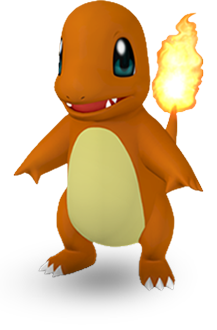
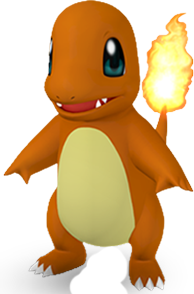
html card moved to js & some img fixes

diff --git a/app.js b/app.js
@@ -1,0 +1,102 @@
+const pokemons = [
+  {
+    id: 1,
+    name: "Bulbasour",
+    genre: "Grass",
+    hp: "20",
+    attack: "35",
+    defence: "40",
+    speed: "20",
+    img: "assets/img/Bulbasour.png",
+    color: "126, 216, 118",
+  },
+  {
+    id: 2,
+    name: "Squirlte",
+    genre: "Water",
+    hp: "30",
+    attack: "20",
+    defence: "35",
+    speed: "25",
+    img: "assets/img/Squirlte.png",
+    color: "99, 219, 243",
+  },
+  {
+    id: 3,
+    name: "Charmander",
+    genre: "Fire",
+    hp: "20",
+    attack: "15",
+    defence: "25",
+    speed: "10",
+    img: "assets/img/Charmander-1.png",
+    color: "243, 118, 0",
+  },
+  {
+    id: 4,
+    name: "Pikachu",
+    genre: "Electric",
+    hp: "30",
+    attack: "40",
+    defence: "25",
+    speed: "20",
+    img: "assets/img/Pikachu-1.png",
+    color: "255, 213, 6",
+  },
+];
+
+const body = document.body;
+body.innerHTML = pokemons
+  .map((pokemon) => {
+    return `<div class="card">
+        <div class="avatar">
+            <div class="experience">
+                <svg>
+                    <filter id='inset-shadow'>
+                        <feOffset dx='1' dy='1' />
+                        <feGaussianBlur stdDeviation='1.5' result='offset-blur' />
+                        <feComposite operator='out' in='SourceGraphic' in2='offset-blur' result='inverse' />
+                        <feFlood flood-color='black' flood-opacity='.95' result='color' />
+                        <feComposite operator='in' in='color' in2='inverse' result='shadow' />
+                        <feComposite operator='over' in='shadow' in2='SourceGraphic' />
+                    </filter>
+                    <circle cx="104" cy="104" r="90" style="stroke:rgb(${pokemon.color})"></circle>
+                </svg>
+            </div>
+            <div class="avatar-img">
+                <img src="${pokemon.img}" alt="">
+            </div>
+        </div>
+        <div class="info">
+            <h3 class="name">${pokemon.name}</h3>
+            <span class="proffession">${pokemon.genre}</span>
+        </div>
+        <div class="abilities">
+            <div class="ability">
+                <h5 class="ability-name">HP</h5>
+                <div class="bar">
+                    <div class="bar-fill bar-fill-hp" style="width:${pokemon.hp}%; background-color:rgba(${pokemon.color});"></div>
+                </div>
+            </div>
+            <div class="ability">
+                <h5 class="ability-name">Attack</h5>
+                <div class="bar">
+                    <div class="bar-fill bar-fill-attack" style="width:${pokemon.attack}%; background-color:rgba(${pokemon.color});"></div>
+                </div>
+            </div>
+            <div class="ability">
+                <h5 class="ability-name">Defence</h5>
+                <div class="bar">
+                    <div class="bar-fill bar-fill-defence" style="width:${pokemon.defence}%; background-color:rgba(${pokemon.color});"></div>
+                </div>
+            </div>
+            <div class="ability">
+                <h5 class="ability-name">Speed</h5>
+                <div class="bar">
+                    <div class="bar-fill bar-fill-speed" style="width:${pokemon.speed}%; background-color:rgba(${pokemon.color});"></div>
+                </div>
+            </div>
+        </div>
+    </div>`;
+  })
+  .join("");

diff --git a/styles/_main.scss b/styles/_main.scss
@@ -15,7 +15,7 @@ body {
 }
 
 $card-width: 24.5rem;
-$card-height: 34rem;
+$card-height: 33rem;
 $avatar-width: 13rem;
 $avatar-height: 13rem;
 $avatar-box-shadow:
@@ -35,7 +35,7 @@ $experience-height: 15rem;
     display: grid;
     grid-template-rows: 15rem 6rem auto;
     justify-items: center;
-
+    margin: 0 2.5rem;
     & .avatar {
         width: $avatar-width;
         height: $avatar-height;
@@ -49,7 +49,6 @@ $experience-height: 15rem;
                 height: $experience-width;
                 width: $experience-height;
                 fill: transparent;
-                stroke: #7ed876;
                 stroke-width: 5%;
                 stroke-linecap: round;
                 stroke-dasharray: 700;
@@ -67,12 +66,12 @@ $experience-height: 15rem;
             left: 50%;
             translate: -50% -50%;
             & img {
-                width: calc($avatar-width * 0.8);
+                width: calc($avatar-height * 0.8);
                 height: calc($avatar-height * 0.8);
-                object-fit: cover;
+                object-fit: contain;
                 position: absolute;
                 top: 5px;
-                left: 55%;
+                left: 50%;
                 translate: -50% 0;
             }
         }
@@ -86,7 +85,7 @@ $experience-height: 15rem;
         align-items: center;
         & .name {
             text-shadow: 0px 4px 4px 0px rgba(0, 0, 0, 0.25);
-            font-size: 40px;
+            font-size: 30px;
             font-style: normal;
             font-weight: 700;
             line-height: normal;
@@ -107,7 +106,7 @@ $experience-height: 15rem;
             align-items: center;
             justify-content: flex-start;
             & .ability-name {
-                width: 50%;
+                width: 70%;
                 color: #4b4b4b;
                 font-size: 1.1rem;
                 font-style: normal;
@@ -125,9 +124,7 @@ $experience-height: 15rem;
                 -3px -2px 2px #ffffff,
                 inset 2px 3px 3px rgba(174, 174, 192, 0.3);
             & .bar-fill {
-                width: 20%;
                 height: 100%;
-                background-color: #7ed876;
                 border-radius: inherit;
             }
         }

diff --git a/style.css b/style.css
@@ -22,13 +22,14 @@ body {
 
 .card {
   width: 24.5rem;
-  height: 34rem;
+  height: 33rem;
   padding: 2rem;
   border-radius: 2rem;
   box-shadow: 8px 8px 20px rgba(174, 174, 192, 0.25), -8px -8px 20px #ffffff;
   display: grid;
   grid-template-rows: 15rem 6rem auto;
   justify-items: center;
+  margin: 0 2.5rem;
 }
 .card .avatar {
   width: 13rem;
@@ -45,7 +46,6 @@ body {
   height: 15rem;
   width: 15rem;
   fill: transparent;
-  stroke: #7ed876;
   stroke-width: 5%;
   stroke-linecap: round;
   stroke-dasharray: 700;
@@ -65,11 +65,11 @@ body {
 .card .avatar .avatar-img img {
   width: 10.4rem;
   height: 10.4rem;
-  -o-object-fit: cover;
-     object-fit: cover;
+  -o-object-fit: contain;
+     object-fit: contain;
   position: absolute;
   top: 5px;
-  left: 55%;
+  left: 50%;
   translate: -50% 0;
 }
 .card .info {
@@ -82,7 +82,7 @@ body {
 }
 .card .info .name {
   text-shadow: 0px 4px 4px 0px rgba(0, 0, 0, 0.25);
-  font-size: 40px;
+  font-size: 30px;
   font-style: normal;
   font-weight: 700;
   line-height: normal;
@@ -104,7 +104,7 @@ body {
   justify-content: flex-start;
 }
 .card .abilities .ability .ability-name {
-  width: 50%;
+  width: 70%;
   color: #4b4b4b;
   font-size: 1.1rem;
   font-style: normal;
@@ -119,8 +119,6 @@ body {
   box-shadow: 2px 4px 11px 0px rgba(174, 174, 192, 0.7), -3px -2px 2px #ffffff, inset 2px 3px 3px rgba(174, 174, 192, 0.3);
 }
 .card .abilities .bar .bar-fill {
-  width: 20%;
   height: 100%;
-  background-color: #7ed876;
   border-radius: inherit;
 }/*# sourceMappingURL=style.css.map */

diff --git a/index.html b/index.html
@@ -11,7 +11,7 @@
 
 <body>
 
-    <div class="card">
+    <!-- <div class="card">
         <div class="avatar">
             <div class="experience">
                 <svg>
@@ -38,29 +38,29 @@
             <div class="ability">
                 <h5 class="ability-name">HP</h5>
                 <div class="bar">
-                    <div class="bar-fill"></div>
+                    <div class="bar-fill bar-fill-hp"></div>
                 </div>
             </div>
             <div class="ability">
                 <h5 class="ability-name">Attack</h5>
                 <div class="bar">
-                    <div class="bar-fill"></div>
+                    <div class="bar-fill bar-fill-attack"></div>
                 </div>
             </div>
             <div class="ability">
                 <h5 class="ability-name">Defence</h5>
                 <div class="bar">
-                    <div class="bar-fill"></div>
+                    <div class="bar-fill bar-fill-defence"></div>
                 </div>
             </div>
             <div class="ability">
                 <h5 class="ability-name">Speed</h5>
                 <div class="bar">
-                    <div class="bar-fill"></div>
+                    <div class="bar-fill bar-fill-speed"></div>
                 </div>
             </div>
         </div>
-    </div>
+    </div> -->
 
 </body>
 
